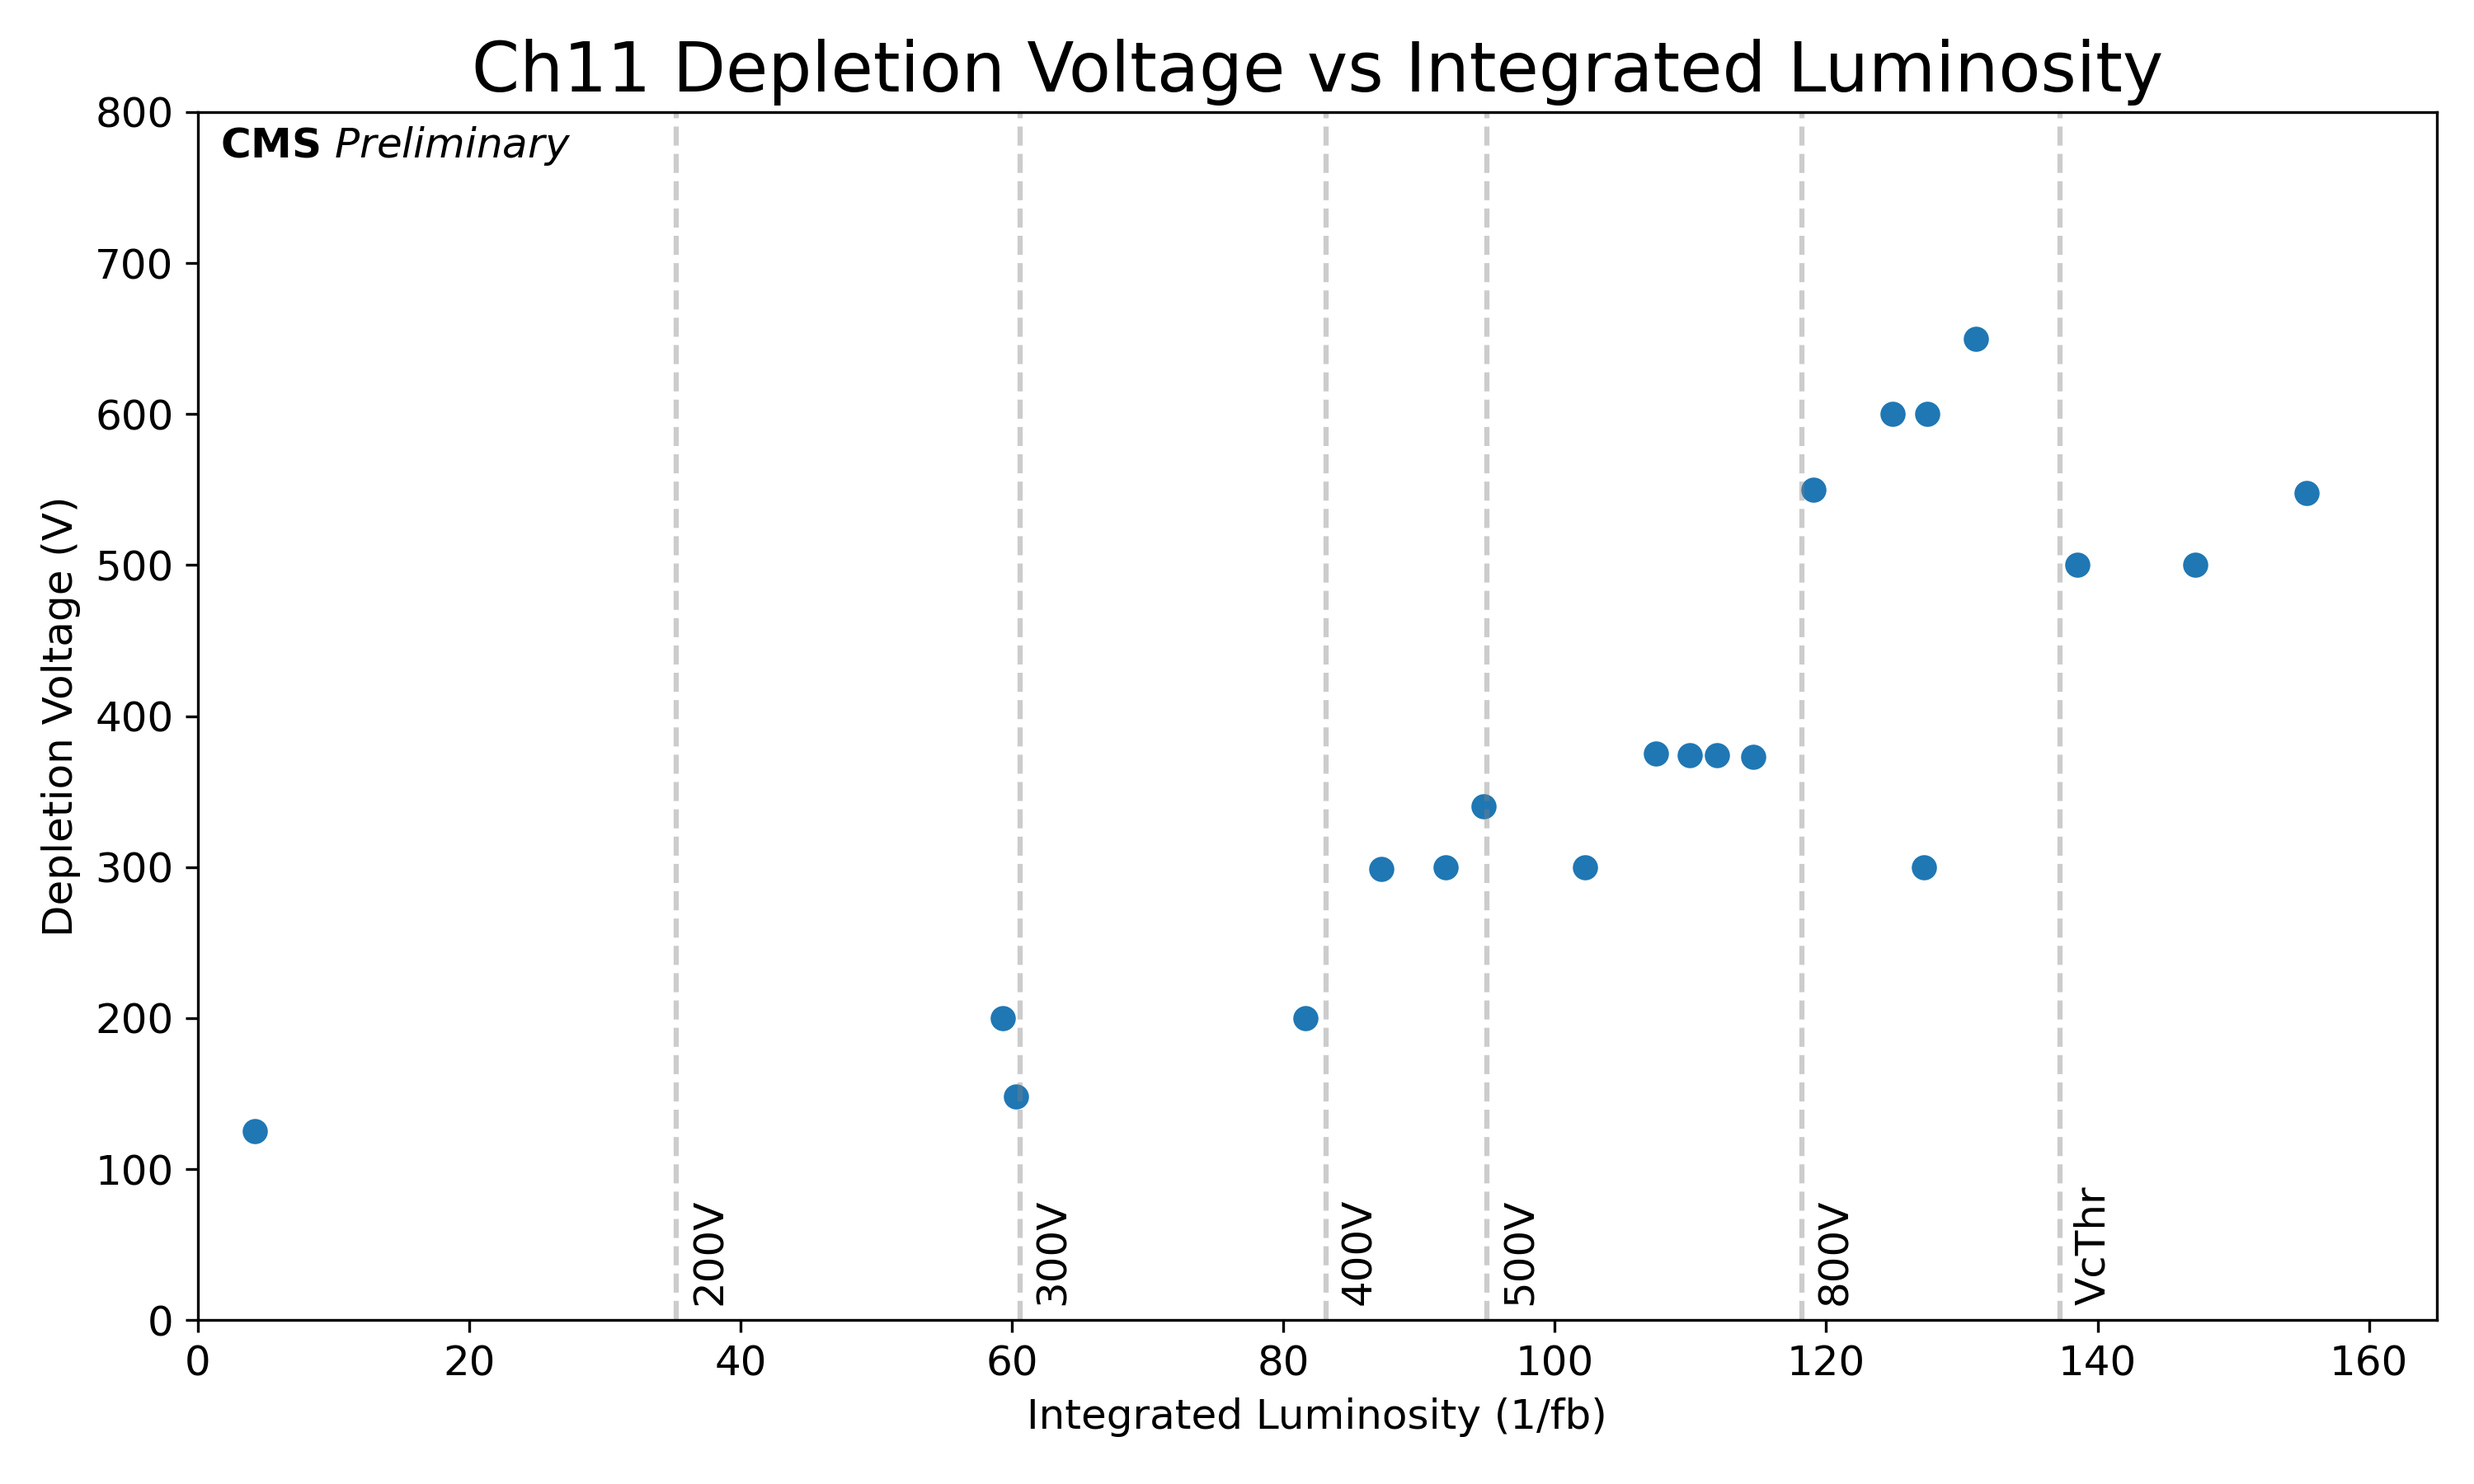
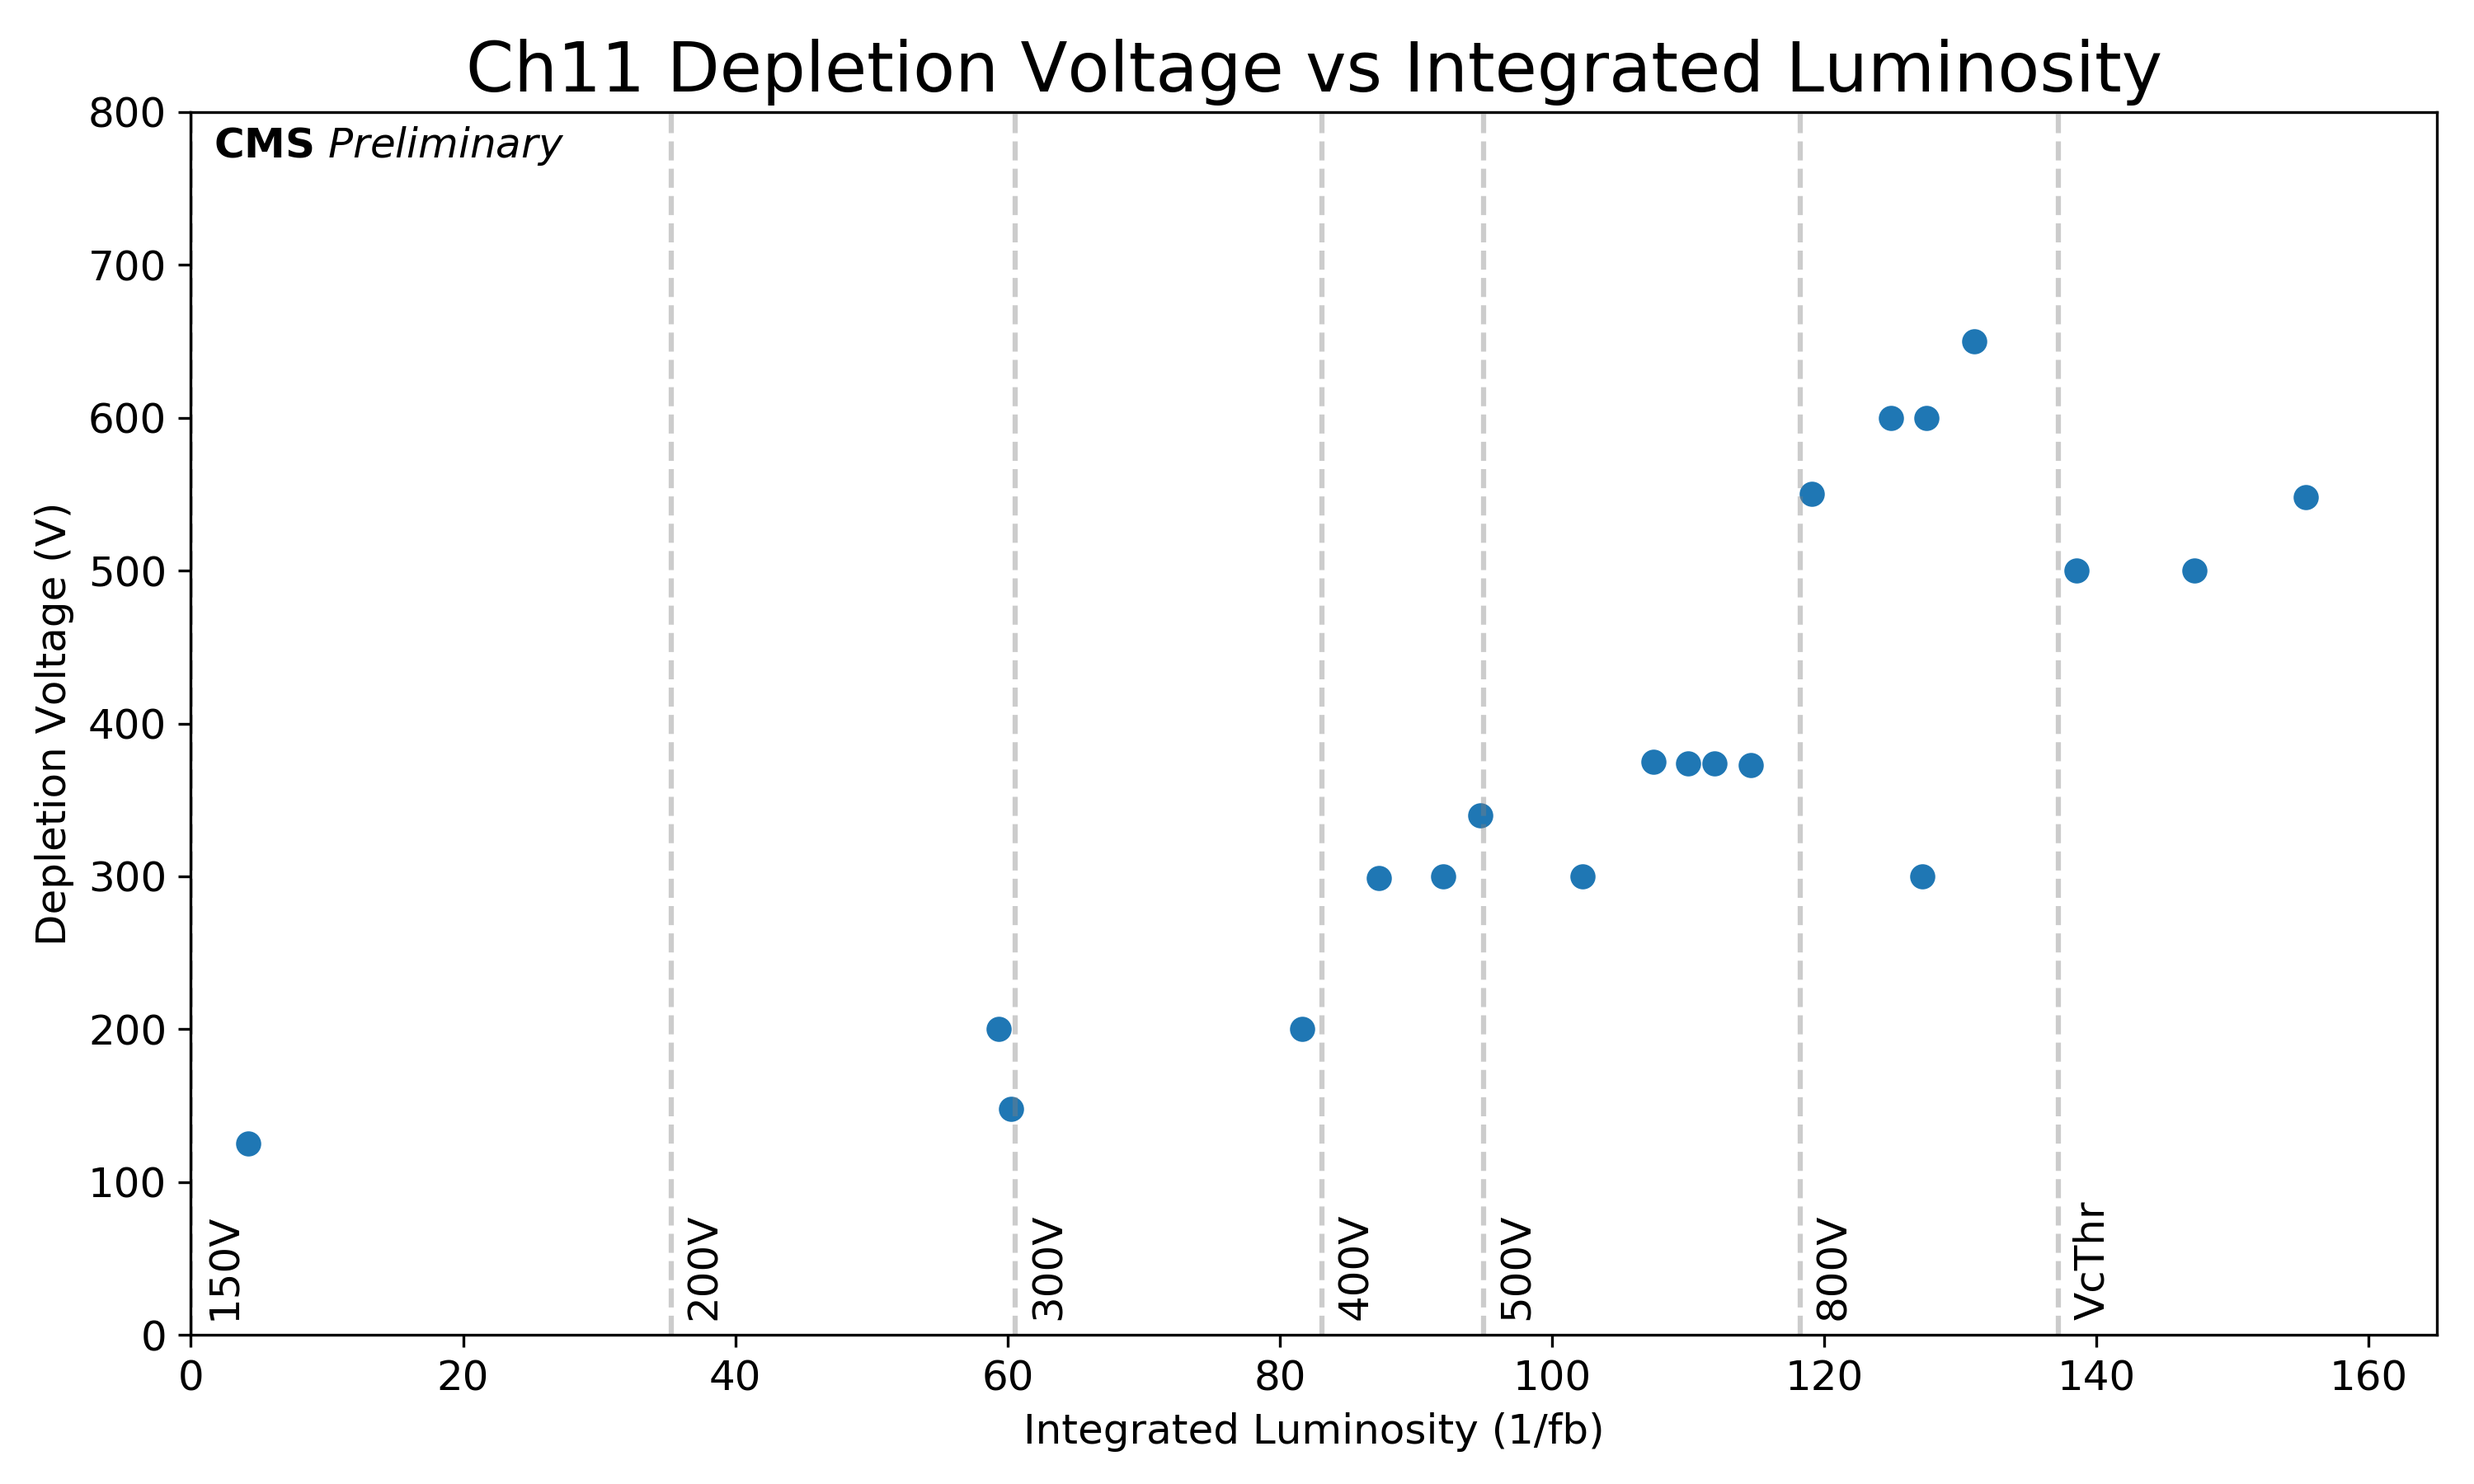
added initial 150 V setpoint

diff --git a/DepletionVoltage/plotDeplVolt.py b/DepletionVoltage/plotDeplVolt.py
@@ -51,7 +51,7 @@ def plotDeplVolt(ch:int):
     intLumiAx.axes.set_ylim(0.0, 800.0)
     intLumiAx.axes.set_xlim(0.0, 165.0)
     # dateSecondaryAxis()
-    hvSetPoints = {'2016-09-09 16:10':'200V', '2017-08-10 01:10':'300V', '2017-10-18 21:00':'400V', '2018-03-22 17:45':'500V', '2018-06-10 04:50':'800V', '2018-08-18 04:35':'VcThr'}
+    hvSetPoints = {'2015-05-01':'150V','2016-09-09 16:10':'200V', '2017-08-10 01:10':'300V', '2017-10-18 21:00':'400V', '2018-03-22 17:45':'500V', '2018-06-10 04:50':'800V', '2018-08-18 04:35':'VcThr'}
         # 200:[http://cmsonline.cern.ch/cms-elog/948105]  250:[http://cmsonline.cern.ch/cms-elog/1002826] 300:[http://cmsonline.cern.ch/cms-elog/1003149]
         # 350:[http://cmsonline.cern.ch/cms-elog/1015071] 400:[http://cmsonline.cern.ch/cms-elog/1016344] 800:[http://cmsonline.cern.ch/cms-elog/1047254]
         # VcThr:[http://cmsonline.cern.ch/cms-elog/1058918]
